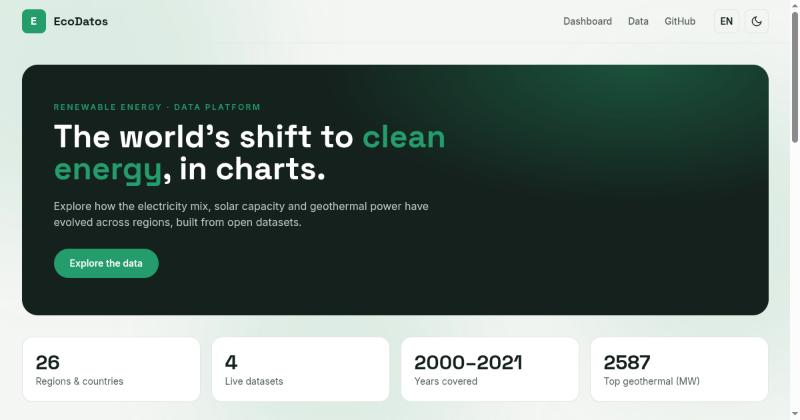
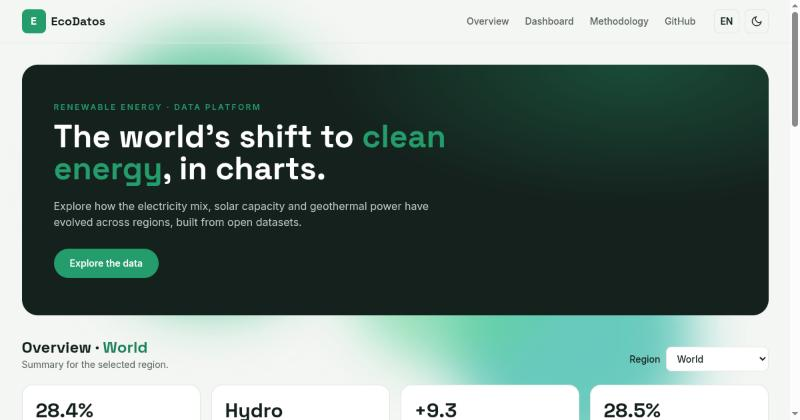
docs: update readme and screenshots

diff --git a/README.md b/README.md
@@ -4,22 +4,25 @@ A renewable-energy data dashboard. Pick a region and explore its electricity mix
 
 **Live demo:** [sagudelo01.github.io/Proyecto-Bootcamp](https://sagudelo01.github.io/Proyecto-Bootcamp/)
 
-![EcoDatos dashboard](docs/hero.png)
+![EcoDatos dashboard](docs/overview.png)
 
 ## Features
 
-- Region selector that updates the charts for 26 countries and regions
+- Region selector that drives the whole dashboard for 26 countries and regions
+- Summary KPI cards that recompute per region (renewable share, top source, growth since 2000, peak share) with a count-up animation
 - Four interactive charts: electricity mix (doughnut), renewable share over time (stacked area), solar capacity trend (line) and geothermal leaders (bar)
-- English / Spanish toggle that translates the whole interface, including chart labels and region names; the choice is remembered and defaults to the browser language
-- Light / dark theme that the charts adapt to; it respects `prefers-color-scheme` and is remembered
+- Each chart can switch to an accessible data table, or export its data as CSV and the chart as PNG
+- English / Spanish toggle that translates the whole interface, including chart labels, table headers and region names; remembered and defaulting to the browser language
+- Light / dark theme that the charts adapt to; respects `prefers-color-scheme` and is remembered
 - Subtle CSS-only animated background that pauses when the tab is hidden and respects `prefers-reduced-motion`
-- Accessibility basics: skip link, labelled controls, focus styles, and a styled 404 page
+- Sticky navigation with active-section highlighting, a styled 404 page, print styles, and keyboard shortcuts (`t` theme, `l` language)
+- "Methodology & sources" section citing the data and its limitations
 - Data is pre-processed into a small JS bundle, so the dashboard loads instantly with no backend
 
 ## Stack
 
 - HTML, CSS and vanilla JavaScript
-- Tailwind CSS (CDN) and Chart.js
+- Tailwind CSS (compiled to a static stylesheet) and Chart.js
 - Data from [Our World in Data](https://ourworldindata.org/energy)
 
 ## Running locally
@@ -34,6 +37,13 @@ python3 -m http.server 8000
 
 Then open `http://localhost:8000`.
 
+To rebuild the Tailwind stylesheet after changing classes:
+
+```bash
+npm install
+npm run build:css
+```
+
 ## Data
 
 The original project shipped several raw CSV datasets. They are filtered to a
@@ -43,6 +53,4 @@ avoids runtime CSV parsing.
 
 ## Screenshots
 
-| Charts (light) | Charts (dark, Spanish) |
-|---|---|
-| ![Charts in light mode](docs/charts.png) | ![Charts in dark mode](docs/dark.png) |
+![Charts with table and export tools](docs/charts.png)
